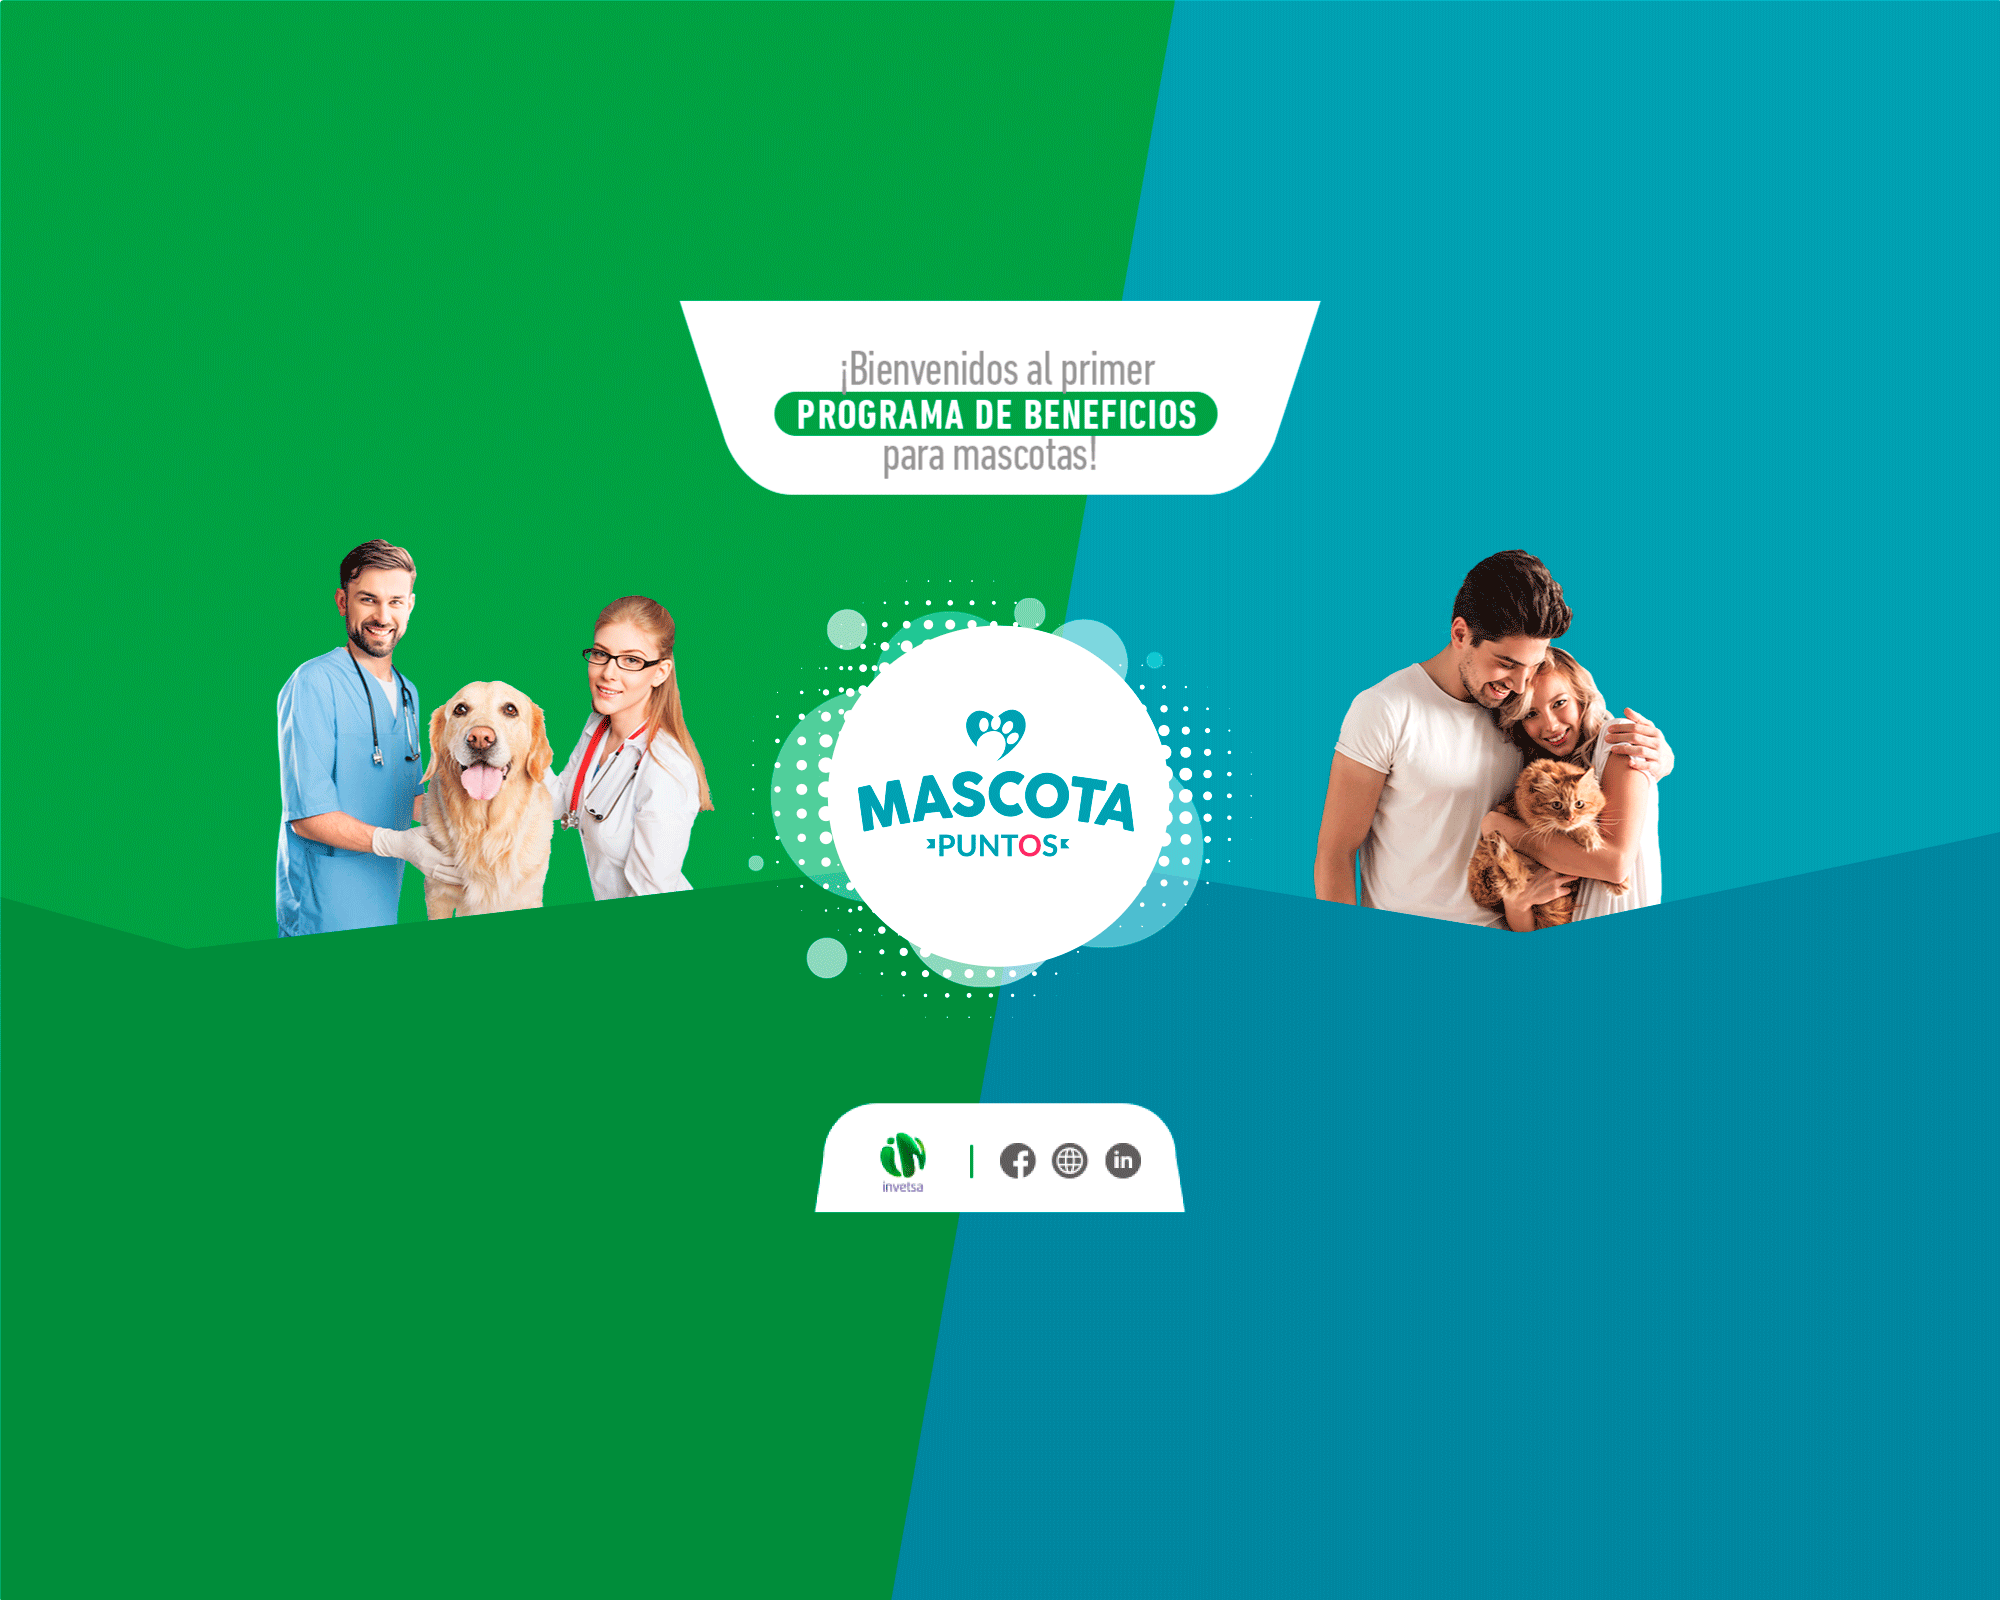
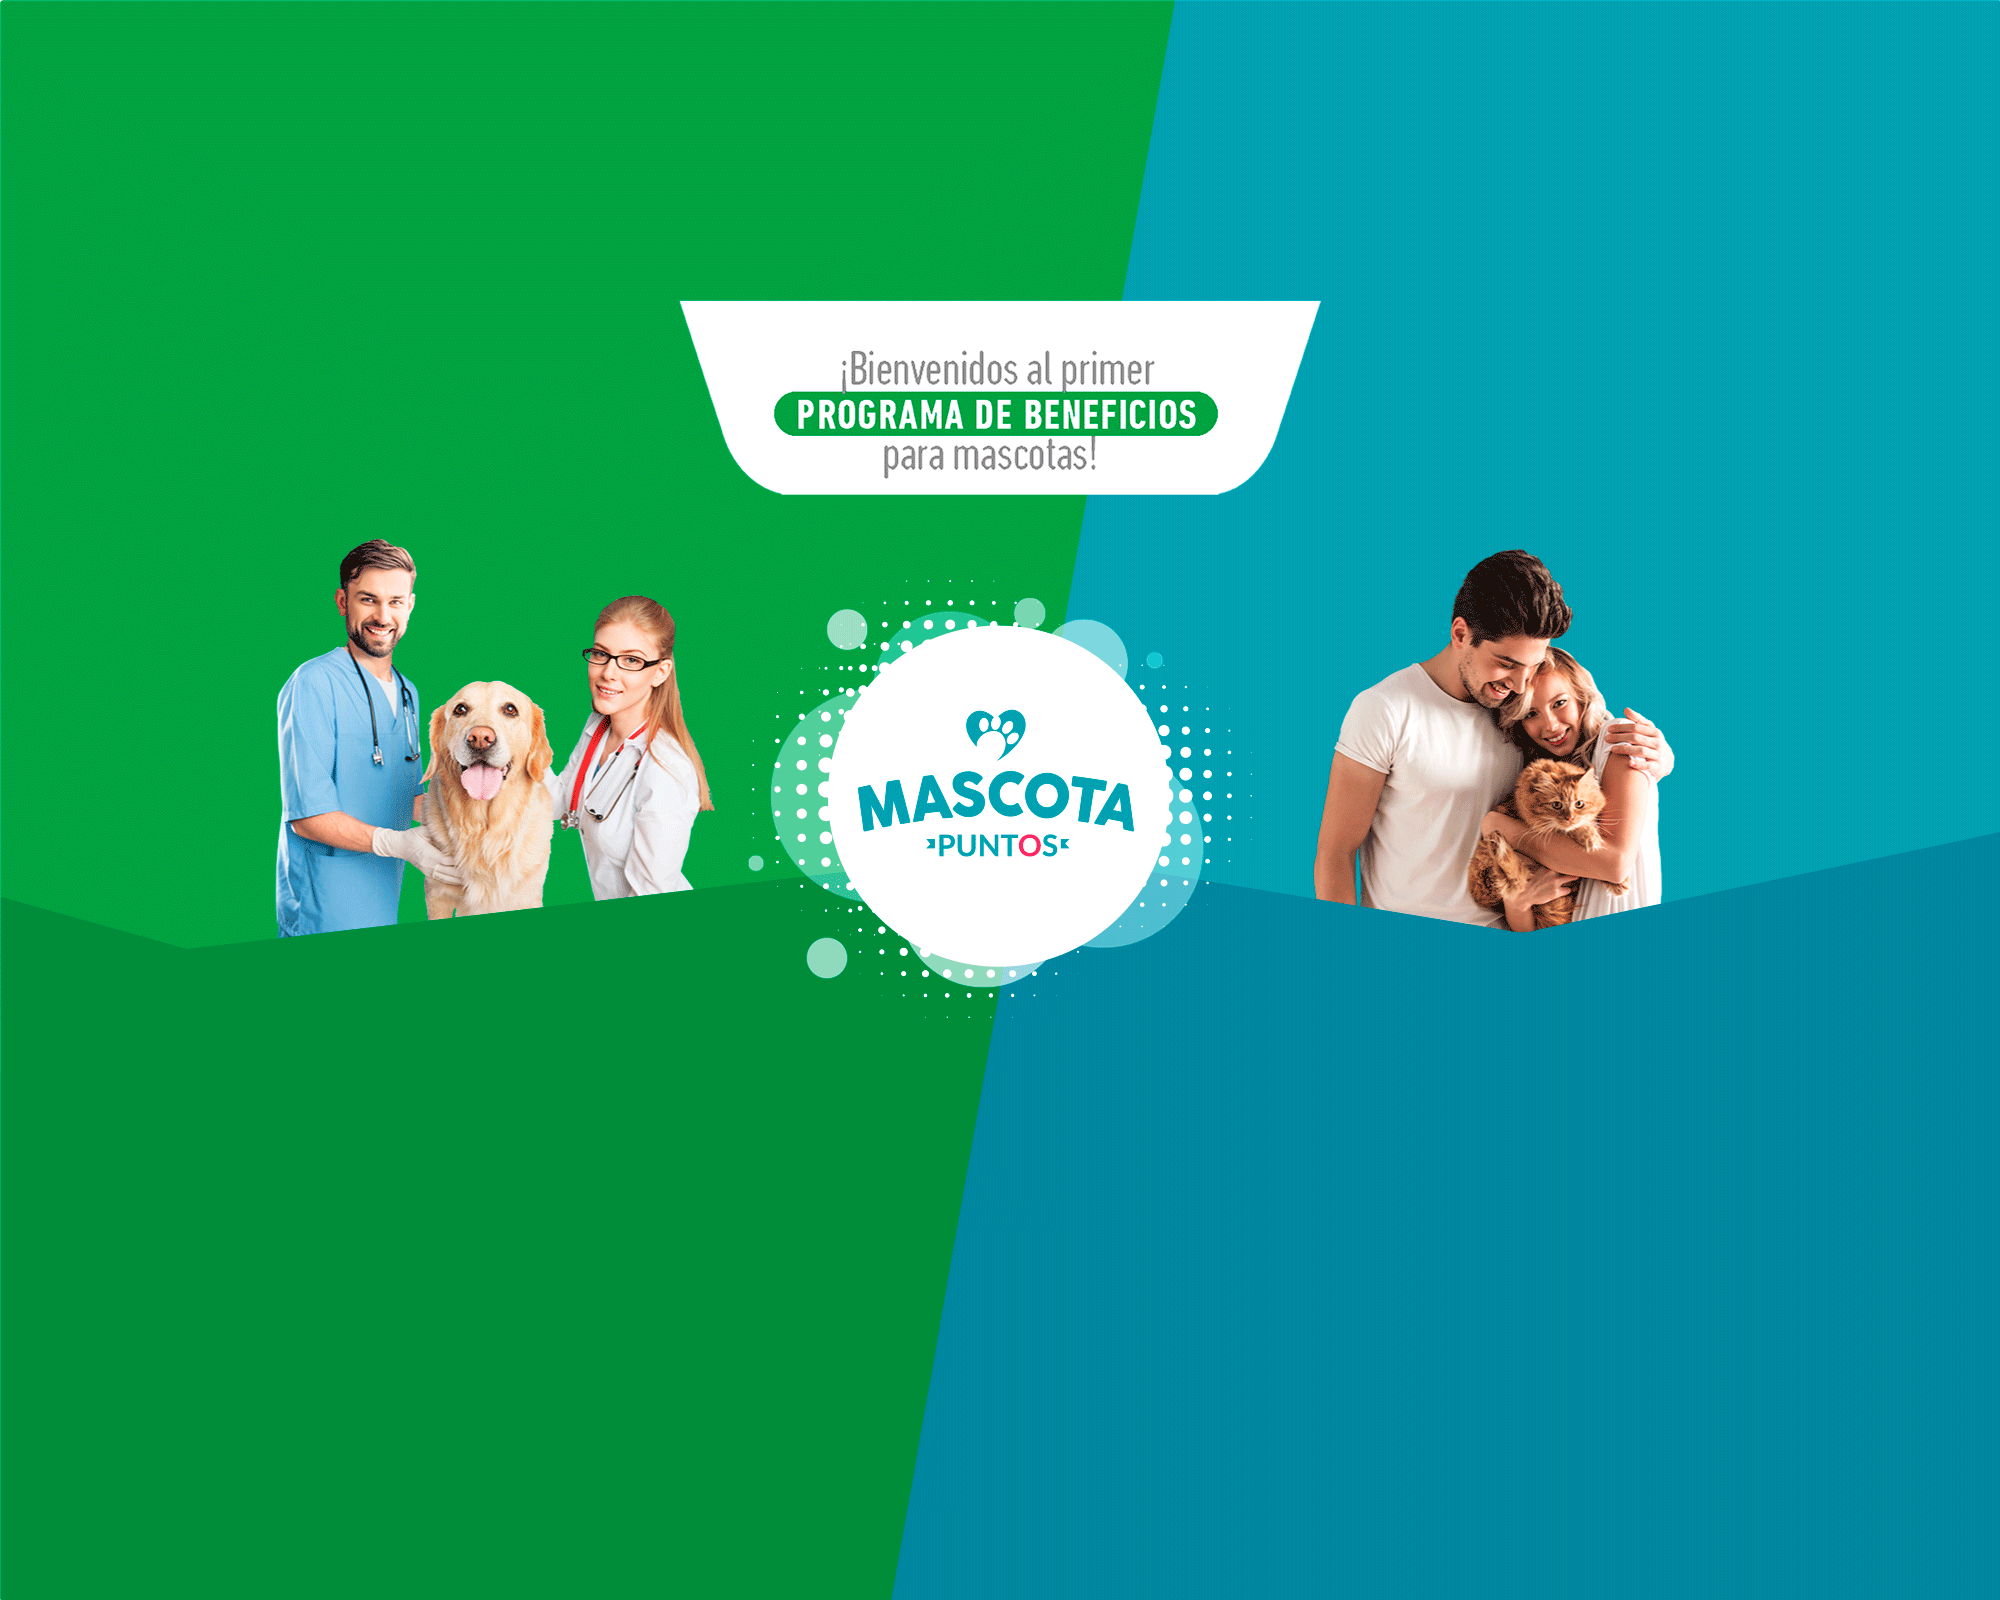
login cambios

diff --git a/login.html b/login.html
@@ -19,11 +19,19 @@
 </head>
 
 <body class="fondo">
-	<div class="col-md-12 disp-fle mrg-top20" style="position: absolute; bottom: 0;">
-		<a href="" class="open-product button">
+	<div class="col-md-12 disp-fle mrg-top20" style="position: absolute; bottom: 60px;">
+		<a href="" class="open-product button col-md-2">
 			<img src="img/veteri-img.png" alt="">
 		</a>
-		<a href="" class="open-addcar button">
+		<div class="col-md-3 pie-bott">
+			<ul class="itm-cent">
+				<li class="siz-icons3"><a href="https://www.invetsa.com/"><img src="img/log1.png" alt=""></a></li>
+				<li><a href="https://www.facebook.com/mascotaclubperu/?ref=bookmarks"><img class="siz-icons2" src="img/fb1.png" alt=""></a></li>
+				<li><a href="https://www.mascotaclubperu.com/"><img class="siz-icons2" src="img/web1.png" alt=""></a></li>
+				<li><a href="https://www.linkedin.com/company/invetsa/"><img class="siz-icons2" src="img/in1.png" alt=""></a></li>
+			</ul>
+		</div>
+		<a href="" class="open-addcar button col-md-2">
 			<img src="img/cliente-img.png" alt="">
 		</a>
 	</div>

diff --git a/css/style.css b/css/style.css
@@ -14108,3 +14108,29 @@ sup {
 		width: 100% !;
 	}
 }
+
+.siz-icons3{
+	width: 40px;
+	border-right: 2px solid #1AA14A;
+    padding-right: 14px;
+}
+.siz-icons2{
+	width:20px;
+}
+
+.itm-cent{
+	margin-top: 15px;
+	display: flex;
+	justify-content: space-around;
+	align-items: center;
+}
+.pie-bott{
+	background-image: url(../img/pie_pag.png);
+    background-size: contain;
+    background-position: top;
+    height: 56px;
+	width: 210px;
+	padding: 0px 22px;
+	position: absolute;
+    bottom: -60px;
+}
